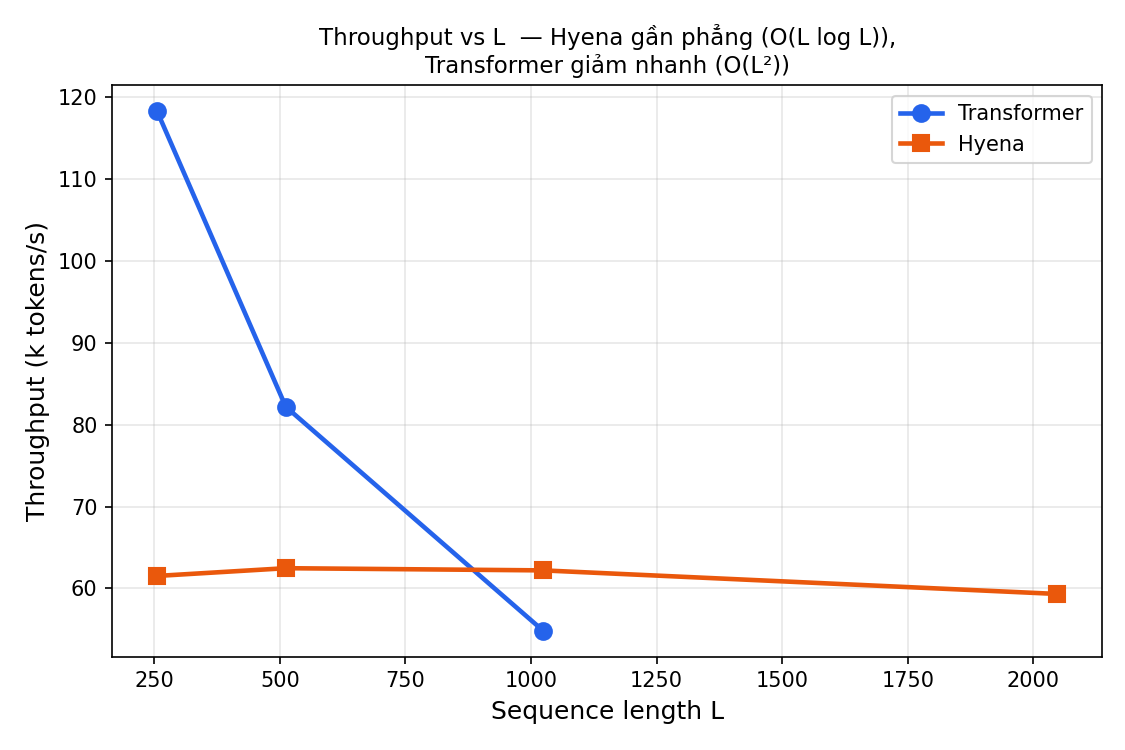
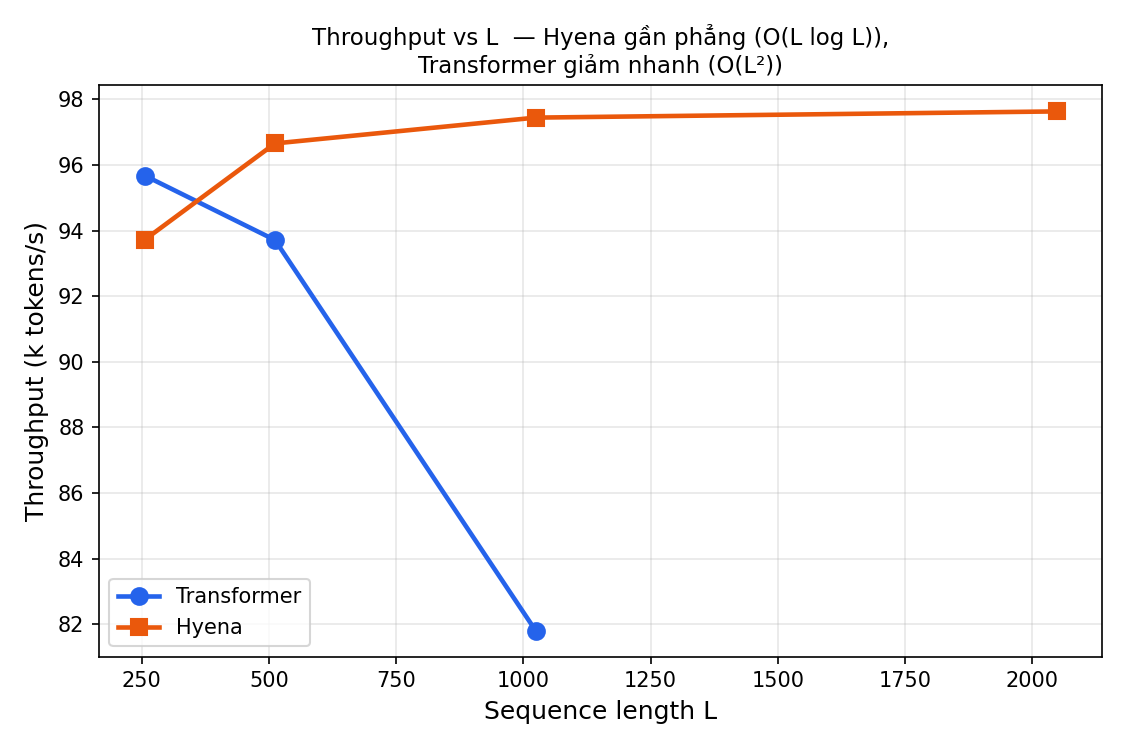
sync TV2 scaling artifacts with results CSVs

diff --git a/tv2_hyena_method/experiment/plot_scaling.py b/tv2_hyena_method/experiment/plot_scaling.py
@@ -79,7 +79,7 @@ if cross:
 
 ax.set_xlabel("Sequence length L", fontsize=12)
 ax.set_ylabel("Time / forward step (ms)", fontsize=12)
-ax.set_title("Scaling: Transformer vs Hyena  (d_model=256, 4 layers, batch=8, MPS)",
+ax.set_title("Scaling: Transformer vs Hyena  (d_model=256, 4 layers, batch=8, Colab T4)",
              fontsize=11)
 ax.grid(True, which="both", alpha=0.3)
 ax.legend(fontsize=9, loc="upper left")

diff --git a/tv2_hyena_method/experiment/scaling_analysis.md b/tv2_hyena_method/experiment/scaling_analysis.md
@@ -1,9 +1,9 @@
-# TV2 - Scaling Analysis (E2/E3, số thật)
+# TV2 - Scaling Analysis (E2/E3, đồng bộ với `results/`)
 
 > Phục vụ yêu cầu [phan_cong_present_hyena_3_tuan.md §8.3](../../phan_cong_present_hyena_3_tuan.md):
 > *"CSV scaling E2/E3: TV3 tạo + TV2 phân tích scaling runtime/memory và liên hệ complexity."*
 >
-> **Lưu ý phụ trách:** CSV do lệnh `evaluate.py --scaling` sinh (TV2 đã chạy vì TV3 chưa nộp). Phần **phân tích + liên hệ complexity là của TV2**. Khi TV3 chạy lại trên GPU/Colab, thay số vào đây — mạch phân tích giữ nguyên.
+> **Lưu ý phụ trách:** TV2 từng dùng bộ số tạm thời để viết khung phân tích. File này đã được **đồng bộ lại theo CSV chính thức trong `results/`** để TV2 và TV3 cùng dùng một bộ số.
 
 ---
 
@@ -13,11 +13,11 @@
 |---|---|
 | Lệnh | `python evaluate.py --model {transformer,hyena} --scaling --seq_lens ... --batch_size 8` |
 | d_model | 256 · n_layers 4 · batch 8 · dropout 0.0 |
-| Device | **MPS** (Apple Silicon), torch 2.12 |
+| Device | **Colab T4 (CUDA)** |
 | Đo | warmup 5 + measure 20 forward pass, dummy input |
 | Tham số | Transformer 16.28M / Hyena 16.45M (chênh ~1%, so sánh công bằng) |
 | File | [E2_transformer_scale.csv](E2_transformer_scale.csv), [E3_hyena_scale.csv](E3_hyena_scale.csv) |
-| Ngày chạy | 15/06/2026 |
+| Nguồn số | đồng bộ từ [results/](../../results/) |
 
 ---
 
@@ -25,47 +25,46 @@
 
 ### E2 — Transformer (Attention)
 
-| L | Time/step (ms) | Tăng / nhân đôi L | Throughput (k tok/s) |
-|---:|---:|---|---:|
-| 256 | 17.31 | — | 118.3 |
-| 512 | 49.83 | **2.88×** | 82.2 |
-| 1024 | 149.38 | **3.00×** | 54.8 |
+| L | Time/step (ms) | Tăng / nhân đôi L | Throughput (k tok/s) | Peak mem (MB) |
+|---:|---:|---|---:|---:|
+| 256 | 21.41 | — | 95.7 | 466.3 |
+| 512 | 43.71 | **2.04x** | 93.7 | 862.7 |
+| 1024 | 100.14 | **2.29x** | 81.8 | 1654.8 |
 
-256→1024 (×4 L): time tăng **8.63×**.
+256→1024 (x4 L): time tăng **4.68x**.
 
 ### E3 — Hyena
 
-| L | Time/step (ms) | Tăng / nhân đôi L | Throughput (k tok/s) |
-|---:|---:|---|---:|
-| 256 | 33.29 | — | 61.5 |
-| 512 | 65.57 | **1.97×** | 62.5 |
-| 1024 | 131.70 | **2.01×** | 62.2 |
-| 2048 | 276.21 | **2.10×** | 59.3 |
+| L | Time/step (ms) | Tăng / nhân đôi L | Throughput (k tok/s) | Peak mem (MB) |
+|---:|---:|---|---:|---:|
+| 256 | 21.85 | — | 93.7 | 466.7 |
+| 512 | 42.38 | **1.94x** | 96.7 | 862.3 |
+| 1024 | 84.07 | **1.98x** | 97.4 | 1651.4 |
+| 2048 | 167.82 | **2.00x** | 97.6 | 3231.9 |
 
-256→1024 (×4 L): time tăng **3.95×**.
+256→1024 (x4 L): time tăng **3.85x**.
 
 ---
 
 ## 3. Đọc Số — 3 Điểm Chính
 
-### 3.1 Tỉ lệ scaling khớp lý thuyết
-- **Hyena ~2.0× mỗi lần nhân đôi L** (1.97 → 2.01 → 2.10) → đúng dấu hiệu `O(L log L)`.
-- **Transformer ~2.9–3.0× và đang tăng** (2.88 → 3.00) → tiến dần về 4× đặc trưng của `O(L²)` khi `L` lớn; ở `L` nhỏ component tuyến tính (FFN, embedding) làm giảm tỉ lệ.
+### 3.1 Tỉ lệ scaling khớp lý thuyết hơn bản MPS cũ
+- **Hyena ~2.0x mỗi lần nhân đôi L** (1.94 -> 1.98 -> 2.00) -> rất sát dấu hiệu `O(L log L)`.
+- **Transformer tăng nhanh hơn** (2.04 -> 2.29) và có xu hướng tiếp tục cong thêm khi `L` lớn hơn; dải này chưa đủ lớn để thấy mức 4x rõ nét của `O(L^2)`, nhưng quãng 256->1024 đã cao hơn Hyena.
 
-### 3.2 Throughput: chênh rõ nhất
-Đây là hình minh họa mạnh nhất cho slide:
+### 3.2 Throughput: Hyena gần như phẳng, Transformer bắt đầu giảm
 
-| | L=256 | L=1024 | Giảm |
+| | L=256 | L=1024 | Biến động |
 |---|---:|---:|---|
-| Transformer | 118.3 k tok/s | 54.8 k tok/s | **−54%** |
-| Hyena | 61.5 k tok/s | 62.2 k tok/s | **gần phẳng** (dao động ±4%) |
+| Transformer | 95.7 k tok/s | 81.8 k tok/s | **-14.5%** |
+| Hyena | 93.7 k tok/s | 97.4 k tok/s | **gần phẳng** (+4.0%) |
 
-→ Throughput Hyena gần như **không đổi** khi `L` tăng (vì `time ∝ L log L` ⇒ `throughput = L/time ∝ 1/log L` giảm chậm), trong khi Transformer **sụp** theo `1/L`. Xem [scaling_throughput.png](scaling_throughput.png).
+-> Với bộ số Colab/CUDA mới, Hyena không còn bị "đứt throughput" ở dải vừa; đường throughput gần như nằm ngang, trong khi Transformer giảm rõ khi `L` tăng. Xem [scaling_throughput.png](scaling_throughput.png).
 
 ### 3.3 Điểm crossover
-Tại L=512 Hyena **chậm hơn** (65.6 vs 49.8 ms); tại L=1024 Hyena **nhanh hơn** (131.7 vs 149.4 ms). **Crossover ≈ L 750–1000** (plot báo L=1024 — điểm đầu tiên Hyena vượt). Xem [scaling_time.png](scaling_time.png).
+Tại L=256 Hyena **hơi chậm hơn** (21.85 vs 21.41 ms), nhưng tới L=512 Hyena đã **nhanh hơn** (42.38 vs 43.71 ms) và giữ lợi thế tại L=1024 (84.07 vs 100.14 ms). Nghĩa là **crossover nằm trong khoảng 256-512**; trên lưới đo hiện tại, **L=512 là điểm đầu tiên Hyena vượt Transformer**. Xem [scaling_time.png](scaling_time.png).
 
-→ Bên dưới crossover, Hyena chậm hơn vì overhead FFT trên pure-PyTorch; bên trên, lợi thế `O(L log L)` bắt đầu vượt `O(L²)`.
+-> Điều này hợp với lập luận paper: ở `L` nhỏ overhead FFT vẫn còn, nhưng khi `L` tăng thêm thì lợi thế `O(L log L)` bắt đầu lộ ra.
 
 ---
 
@@ -73,25 +72,25 @@ Tại L=512 Hyena **chậm hơn** (65.6 vs 49.8 ms); tại L=1024 Hyena **nhanh 
 
 | | Paper gốc | Kết quả nhóm |
 |---|---|---|
-| Crossover vs attention | ~L 2048 | ~L 750–1024 |
-| Crossover vs FlashAttention | L 4096–8192 | không đo (không có FlashAttn) |
-| Speedup @ L 64K | ~100× | ngoài tầm (chỉ chạy tới L 2048) |
+| Crossover vs attention | ~L 2048 | giữa L 256-512 |
+| Crossover vs FlashAttention | L 4096-8192 | không đo (không có FlashAttn) |
+| Speedup @ L 64K | ~100x | ngoài tầm (chỉ chạy tới L 2048) |
 
-**Crossover của nhóm sớm hơn paper** — khả năng cao vì: (1) attention trên MPS cũng có overhead, (2) dải `L` nhỏ, (3) FFT pure-PyTorch chưa tối ưu. Đây là quan sát **định tính đúng xu hướng** (Hyena thắng khi `L` lớn), không phải tái hiện số tuyệt đối.
+**Crossover của nhóm sớm hơn paper** — khả năng cao vì: (1) quy mô model nhỏ, (2) dải `L` ngắn, (3) implementation Hyena là pure-PyTorch FFT, (4) baseline attention không phải kernel tối ưu như hệ thống benchmark trong paper. Vì vậy, đây là bằng chứng **định tính đúng xu hướng**, không phải đối chiếu số tuyệt đối 1-1 với paper.
 
 ### Giới hạn cần ghi trên slide
-- **Memory = 0.0 ở mọi L**: [evaluate.py:147](../../../evaluate.py#L147) chỉ đo memory qua `torch.cuda.max_memory_allocated()` → MPS/CPU trả 0. **Phải đo riêng** (ví dụ `torch.mps` hoặc chạy trên CUDA) nếu muốn có cột memory.
-- Pure PyTorch FFT, không CUDA kernel → overhead lớn ở `L` nhỏ.
-- `d_model=256`, ~16M params, `L ≤ 2048` — chưa đủ lớn để thấy speedup bùng nổ kiểu paper.
-- Chạy 1 lần, không lặp seed → không có khoảng tin cậy.
+- **Memory giờ đã đo được** vì CSV mới đến từ CUDA; tuy nhiên Transformer mới có tới `L=1024`, nên chưa có đối sánh memory đầy đủ với Hyena tại `L=2048`.
+- Pure PyTorch FFT, không có custom CUDA kernel -> Hyena vẫn chịu overhead ở `L` nhỏ.
+- `d_model=256`, ~16M params, `L <= 2048` — vẫn là small-scale reproduction.
+- Chạy benchmark quy mô nhỏ, không có lặp nhiều seed/nhiều lần -> không báo cáo khoảng tin cậy.
 
 ---
 
 ## 5. Câu Nói Cho Slide 21/22 (TV2) và Slide 31 (TV3)
 
-> "Ở quy mô nhỏ với FFT thuần PyTorch, Hyena chậm hơn Transformer khi `L` nhỏ do overhead FFT. Nhưng khi `L` tăng, thời gian Hyena chỉ tăng khoảng **2× mỗi lần nhân đôi** — đúng lý thuyết `O(L log L)` — trong khi Attention tăng khoảng **3× và đang tiến lên 4×**. Throughput Hyena gần phẳng (~60k token/s) còn Transformer giảm từ 118k xuống 55k. Điểm giao nhau rơi vào khoảng L≈1K. Đây là minh chứng định tính cho lợi thế long-context của Hyena, đúng xu hướng paper gốc, dù số tuyệt đối chưa so được vì scale nhỏ và thiếu kernel tối ưu."
+> "Trong bộ số đã đồng bộ trên Colab T4, Hyena chỉ chậm hơn Transformer rất nhẹ ở L=256, nhưng đến L=512 đã bắt đầu nhanh hơn. Mỗi lần nhân đôi sequence length, time của Hyena tăng gần 2x, rất sát xu hướng `O(L log L)`, trong khi Transformer tăng nhanh hơn và throughput giảm từ 95.7 xuống 81.8k token/s. Vì vậy, dù đây mới là reproduction quy mô nhỏ và chưa có kernel tối ưu, nhóm vẫn quan sát được xu hướng cốt lõi của paper: khi context dài lên, Hyena scale dễ hơn Attention."
 
 ---
 
 ## 6. Bug Cần Báo Nhóm (lặp lại)
-[evaluate.py:33](../../../evaluate.py#L33) import `get_dataloader` ở top-level → nhánh `--scaling` (không cần data) bị phụ thuộc `datasets`/`transformers`. Đề xuất TV3 chuyển import vào nhánh E1. Chi tiết: [expected_complexity.md §6](expected_complexity.md).
+[evaluate.py:33](../../../evaluate.py#L33) import `get_dataloader` ở top-level -> nhánh `--scaling` (không cần data) bị phụ thuộc `datasets`/`transformers`. Đề xuất TV3 chuyển import vào nhánh E1. Chi tiết: [expected_complexity.md §6](expected_complexity.md).